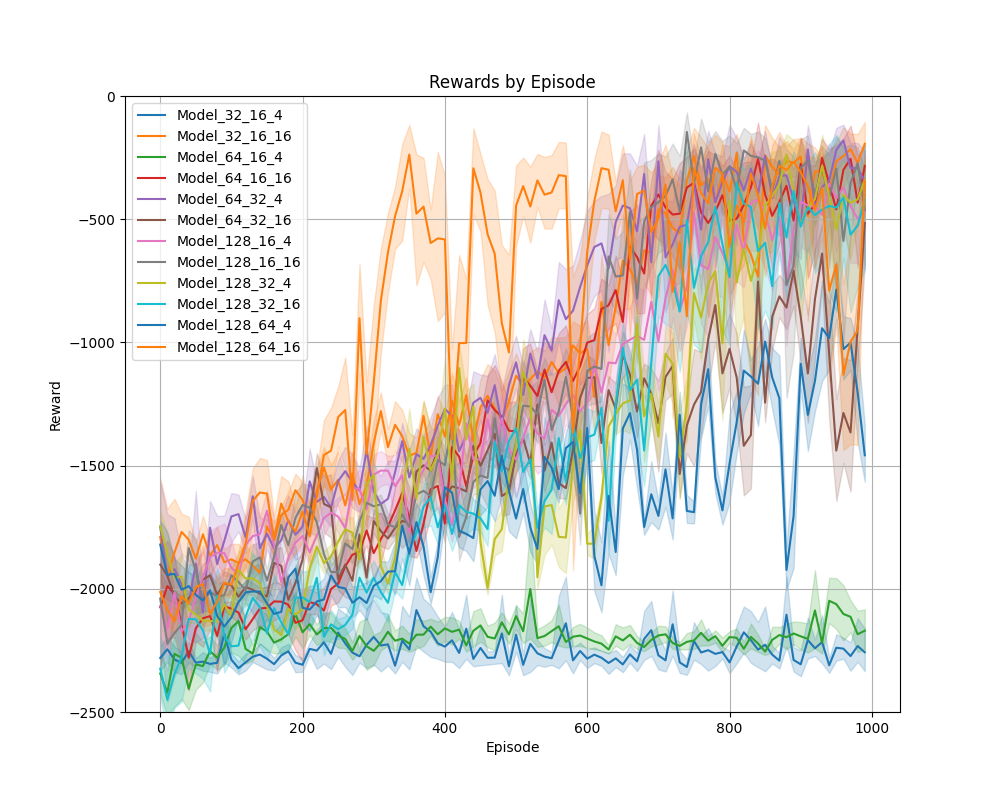
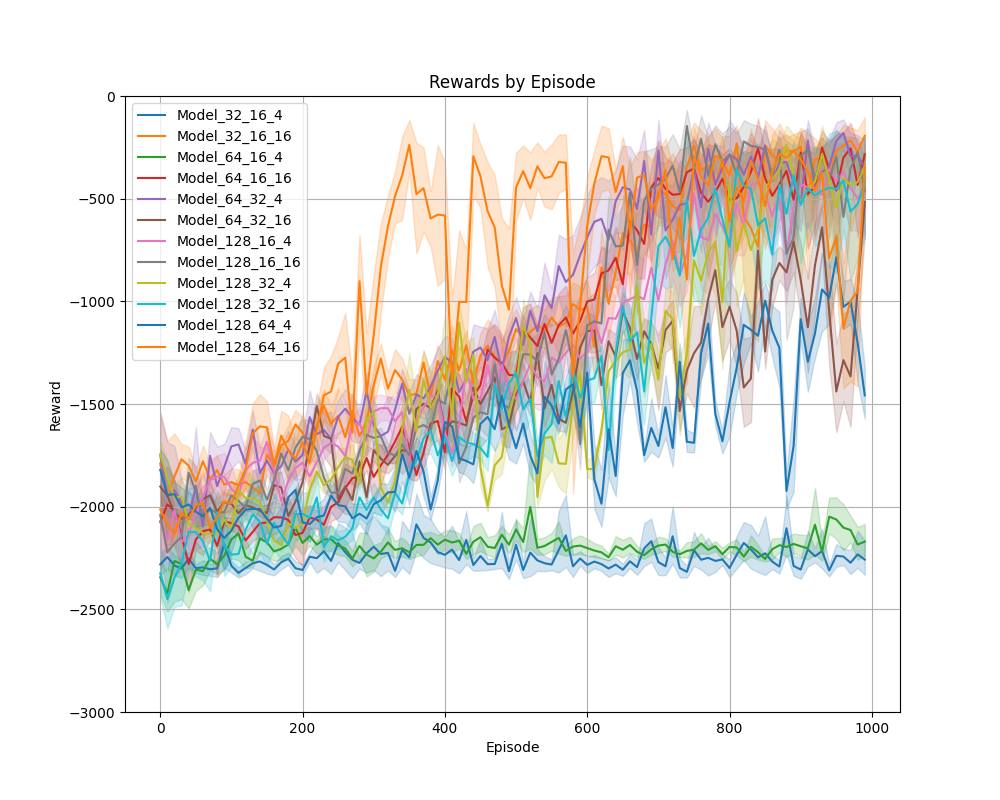
.

diff --git a/a2c/a2c_learn2.py b/a2c/a2c_learn2.py
@@ -15,57 +15,38 @@ import sys
 
 
 ## A2C 액터 신경망
-class Actor(Model):
-
-    def __init__(self, action_dim, action_bound, depth1, depth2, depth3):
-        super(Actor, self).__init__()
+class ActorCritic(Model) : 
+    def __init__(self, action_dim, action_bound) : 
+        super(ActorCritic, self).__init__()
         self.action_bound = action_bound
 
-        self.h1 = Dense(depth1, activation='relu')
-        self.h2 = Dense(depth2, activation='relu')
-        self.h3 = Dense(depth3, activation='relu')
+        self.h1 = Dense(128, activation='relu')
+        self.h2 = Dense(64, activation='relu')
+        self.h3 = Dense(16, activation='relu')
         self.mu = Dense(action_dim, activation='tanh')
         self.std = Dense(action_dim, activation='softplus')
+        self.critic = Dense(1, activation='linear')
 
-    def call(self, state):
+    def call(self, state) : 
         x = self.h1(state)
         x = self.h2(x)
         x = self.h3(x)
         mu = self.mu(x)
         std = self.std(x)
+        v = self.critic(x)
 
         # 평균값을 [-action_bound, action_bound] 범위로 조정
         mu = Lambda(lambda x: x*self.action_bound)(mu)
 
-        return [mu, std]
-
-
-## A2C 크리틱 신경망
-class Critic(Model):
-
-    def __init__(self, depth1, depth2, depth3):
-        super(Critic, self).__init__()
-
-        self.h1 = Dense(depth1, activation='relu')
-        self.h2 = Dense(depth2, activation='relu')
-        self.h3 = Dense(depth3, activation='relu')
-        self.v = Dense(1, activation='linear')
-
-    def call(self, state):
-        x = self.h1(state)
-        x = self.h2(x)
-        x = self.h3(x)
-        v = self.v(x)
-        return v
+        return [mu, std, v]
 
 
 ## A2C 에이전트 클래스
 class A2Cagent(object):
 
-    def __init__(self, env, gamma=0.95, batch_size=32, actor_lr=0.0001, critic_lr=0.001,
-                    depth1 = 64, depth2 = 32, depth3 = 16
+    def __init__(self, env, gamma=0.95, batch_size=32, actor_lr=0.0001, critic_lr=0.001
                 ):
-        self.save_path = Path(f'a2c/Results/Model_{depth1}_{depth2}_{depth3}')
+        self.save_path = Path(f'a2c/Results/Integrated_A2C')
         self.save_path.mkdir(parents=True, exist_ok=True)
 
         # 하이퍼파라미터
@@ -85,17 +66,12 @@ class A2Cagent(object):
         self.std_bound = [1e-2, 1.0]
 
         # 액터 신경망 및 크리틱 신경망 생성
-        self.actor = Actor(self.action_dim, self.action_bound, depth1, depth2, depth3)
-        self.critic = Critic(depth1, depth2, depth3)
-        self.actor.build(input_shape=(None, self.state_dim))
-        self.critic.build(input_shape=(None, self.state_dim))
-
-        self.actor.summary()
-        self.critic.summary()
+        self.actor_critic = ActorCritic(self.action_dim, self.action_bound)
+        self.actor_critic.build(input_shape=(None, self.state_dim))
+        self.actor_critic.summary()
 
         # 옵티마이저 설정
-        self.actor_opt = Adam(self.ACTOR_LEARNING_RATE)
-        self.critic_opt = Adam(self.CRITIC_LEARNING_RATE)
+        self.actor_critic_opt = Adam(self.ACTOR_LEARNING_RATE)
 
         # 에프소드에서 얻은 총 보상값을 저장하기 위한 변수
         self.save_epi_reward = []
@@ -111,42 +87,13 @@ class A2Cagent(object):
 
     ## 액터 신경망에서 행동 샘플링
     def get_action(self, state):
-        mu_a, std_a = self.actor(state)
+        mu_a, std_a, _ = self.actor_critic(state)
         mu_a = mu_a.numpy()[0]
         std_a = std_a.numpy()[0]
         std_a = np.clip(std_a, self.std_bound[0], self.std_bound[1])
         action = np.random.normal(mu_a, std_a, size=self.action_dim)
         return action
 
-
-    ## 액터 신경망 학습
-    def actor_learn(self, states, actions, advantages):
-
-        with tf.GradientTape() as tape:
-            # 정책 확률밀도함수
-            mu_a, std_a = self.actor(states, training=True)
-            log_policy_pdf = self.log_pdf(mu_a, std_a, actions)
-
-            # 손실함수
-            loss_policy = log_policy_pdf * advantages
-            loss = tf.reduce_sum(-loss_policy)
-
-        # 그래디언트
-        grads = tape.gradient(loss, self.actor.trainable_variables)
-        self.actor_opt.apply_gradients(zip(grads, self.actor.trainable_variables))
-
-
-    ## 크리틱 신경망 학습
-    def critic_learn(self, states, td_targets):
-        with tf.GradientTape() as tape:
-            td_hat = self.critic(states, training=True)
-            loss = tf.reduce_mean(tf.square(td_targets-td_hat))
-
-        grads = tape.gradient(loss, self.critic.trainable_variables)
-        self.critic_opt.apply_gradients(zip(grads, self.critic.trainable_variables))
-
-
-    ## 시간차 타깃 계산
     def td_target(self, rewards, next_v_values, dones):
         y_i = np.zeros(next_v_values.shape)
         for i in range(next_v_values.shape[0]):
@@ -156,11 +103,40 @@ class A2Cagent(object):
                 y_i[i] = rewards[i] + self.GAMMA * next_v_values[i]
         return y_i
 
+    ## 신경망 학습
+    def learn(self, states, actions, next_states, train_rewards, dones):
+        with tf.GradientTape() as tape:
+            _, _, v_values = self.actor_critic(states)
+            _, _, next_v_values = self.actor_critic(next_states)
+            mu_a, std_a, td_hat = self.actor_critic(states, training = True)
+            
+
+            mu_a = tf.squeeze(mu_a)
+            std_a = tf.squeeze(std_a)
+            v_values = tf.squeeze(v_values)
+            next_v_values = tf.squeeze(next_v_values)
+            td_hat = tf.squeeze(td_hat)
+
+            td_targets = self.td_target(train_rewards, next_v_values, dones)
+            advantages = train_rewards + self.GAMMA * next_v_values - v_values
+
+            # 정책 신경망의 손실함수
+            loss_policy = self.log_pdf(mu_a, std_a, actions) * advantages
+            actor_loss = tf.reduce_mean(-loss_policy)
+
+            # 크리틱 신경망의 손실함수
+            
+            critic_loss = tf.reduce_mean(tf.square(td_targets-td_hat))
+            total_loss = actor_loss + critic_loss
+            
+        grads = tape.gradient(total_loss, self.actor_critic.trainable_variables)
+        self.actor_critic_opt.apply_gradients(zip(grads, self.actor_critic.trainable_variables))
+        return total_loss
+
 
     ## 신경망 파라미터 로드
     def load_weights(self):
-        self.actor.load_weights(self.save_path.joinpath('pendulum_actor.h5'))
-        self.critic.load_weights(self.save_path.joinpath('pendulum_critic.h5'))
+        self.actor_critic.load_weights(self.save_path.joinpath('pendulum_actor_critic.h5'))
 
 
     ## 배치에 저장된 데이터 추출
@@ -168,6 +144,7 @@ class A2Cagent(object):
         unpack = batch[0]
         for idx in range(len(batch)-1):
             unpack = np.append(unpack, batch[idx+1], axis=0)
+
         return unpack
 
 
@@ -186,6 +163,7 @@ class A2Cagent(object):
             state = np.reshape(state, [1, self.state_dim])
 
             while not done:
+
                 # 학습 가시화
                 # self.env.render()
                 # 행동 샘플링
@@ -234,23 +212,13 @@ class A2Cagent(object):
                 # 배치 비움
                 batch_state, batch_action, batch_reward, batch_next_state, batch_done = [], [], [], [], []
 
-                # 시간차 타깃 계산
-                next_v_values = self.critic(tf.convert_to_tensor(next_states, dtype=tf.float32))
-                td_targets = self.td_target(train_rewards, next_v_values.numpy(), dones)
-
-                # 크리틱 신경망 업데이트
-                self.critic_learn(tf.convert_to_tensor(states, dtype=tf.float32),
-                                  tf.convert_to_tensor(td_targets, dtype=tf.float32))
-
-                # 어드밴티지 계산
-                v_values = self.critic(tf.convert_to_tensor(states, dtype=tf.float32))
-                next_v_values = self.critic(tf.convert_to_tensor(next_states, dtype=tf.float32))
-                advantages = train_rewards + self.GAMMA * next_v_values - v_values
 
                 # 액터 신경망 업데이트
-                self.actor_learn(tf.convert_to_tensor(states, dtype=tf.float32),
+                self.learn(      tf.convert_to_tensor(states, dtype=tf.float32),
                                  tf.convert_to_tensor(actions, dtype=tf.float32),
-                                 tf.convert_to_tensor(advantages, dtype=tf.float32))
+                                 tf.convert_to_tensor(next_states, dtype=tf.float32),
+                                 tf.convert_to_tensor(train_rewards, dtype=tf.float32),
+                                 tf.convert_to_tensor(dones, dtype=tf.float32))
 
                 # 상태 업데이트
                 state = next_state
@@ -267,10 +235,9 @@ class A2Cagent(object):
             # 에피소드 10번마다 신경망 파라미터를 파일에 저장
             if ep % 10 == 0:
                 
-                self.actor.save_weights(self.save_path.joinpath('pendulum_actor.h5'))
-                self.critic.save_weights(self.save_path.joinpath('pendulum_critic.h5'))
+                self.actor_critic.save_weights(self.save_path.joinpath('pendulum_actor_critic.h5'))
                 
-
+            
         # 학습이 끝난 후, 누적 보상값 저장
         np.savetxt(self.save_path.joinpath('pendulum_epi_reward.txt'), self.save_epi_reward)
         print(self.save_epi_reward)

diff --git a/a2c/a2c_load_play2.py b/a2c/a2c_load_play2.py
@@ -5,18 +5,17 @@
 # 필요한 패키지 임포트
 import gym
 import tensorflow as tf
-from a2c_learn import A2Cagent
+from a2c_learn2 import A2Cagent
 import cv2
-import itertools
 import imageio
 
 
-def main(depth1, depth2, depth3):
+def main():
 
     env_name = 'Pendulum-v1'
     env = gym.make(env_name, max_episode_steps=400, render_mode='rgb_array')
 
-    agent = A2Cagent(env, depth1 = depth1, depth2 = depth2, depth3 = depth3)
+    agent = A2Cagent(env)
 
     agent.load_weights()  # 신경망 파라미터를 가져옴
     video_writer = cv2.VideoWriter(agent.save_path.joinpath('project').with_suffix('.mp4').as_posix(),
@@ -31,7 +30,7 @@ def main(depth1, depth2, depth3):
         video_writer.write(time_image)
         images.append(time_image)
         
-        action = agent.actor(tf.convert_to_tensor([state], dtype=tf.float32))[0][0] # 행동 계산
+        action = agent.actor_critic(tf.convert_to_tensor([state], dtype=tf.float32))[0][0] # 행동 계산
         state, reward, term, trunc, _ = env.step(action)  # 환경으로 부터 다음 상태, 보상 받음
         time += 1
         
@@ -44,13 +43,4 @@ def main(depth1, depth2, depth3):
     imageio.mimsave(agent.save_path.joinpath('project').with_suffix('.gif').as_posix(), images, fps=15)
 
 if __name__=="__main__":
-    num_layers = 3
-    node_options = [4, 16, 32, 64, 128]
-    layer_possibilities = [node_options] * num_layers # 3 Layer 선택 필요
-    layer_node_permutations = list(itertools.product(*layer_possibilities))
-
-    layer_node_permutations = [[d1, d2, d3] for d1, d2, d3 in layer_node_permutations if d1 > d2 >= d3]
-    layer_node_permutations = [[d1, d2, d3] for d1, d2, d3 in layer_node_permutations if d1 >= 32 and d2 >= 16 and d3 <= 16]
-    for depth1, depth2, depth3 in layer_node_permutations:
-        print(f"Depth 1 : {depth1}, Depth 2 : {depth2}, Depth 3 : {depth3}")
-        main(depth1,depth2,depth3)
+    main()

diff --git a/a2c/a2c_draw_plot.py b/a2c/a2c_draw_plot.py
@@ -58,7 +58,7 @@ def draw_total_plot(data, title, xlabel, ylabel, filename):
     custom_palette = sns.color_palette("Paired", 12)
     for model_name in data.columns[2:]:
         sns.lineplot(data, x = 'episodes_10', y = model_name, ax=ax, label=model_name, palette=custom_palette)
-    ax.set_ylim(-2500, 0)
+    ax.set_ylim(-3000, 0)
     ax.set(xlabel=xlabel, ylabel=ylabel, title=title)
     ax.grid()
     fig.savefig(filename.with_name('scaled_' + filename.name))
@@ -66,7 +66,7 @@ def draw_total_plot(data, title, xlabel, ylabel, filename):
 
 def main():
     """Load rewards from file and draw plot."""
-    reward_paths = Path('a2c/Results').rglob('*reward.txt')
+    reward_paths = Path('a2c/Results').rglob('Model*/*reward.txt')
     for path in reward_paths:
         load_and_draw(path, 'Rewards by Episode', 'Episode', 'Reward', path.parent.name, path.with_suffix('.png'))
     
@@ -76,6 +76,21 @@ def main():
         total_reward_df[model_name] = rewards['rewards'].values
     draw_total_plot(total_reward_df, 'Rewards by Episode', 'Episode', 'Reward', Path('a2c/Results/total.png'))
 
+def main2() : 
+    """
+    Draw plot for question 2
+    """
+    reward_path1 = Path('a2c/Results/Model_128_64_16/pendulum_epi_reward.txt')
+    reward_path2 = Path('a2c/Results/Integrated_A2C/pendulum_epi_reward.txt')
+    for path in [reward_path1, reward_path2]:
+        load_and_draw(path, 'Rewards by Episode', 'Episode', 'Reward', path.parent.name, path.with_suffix('.png'))
+    
+    total_reward_df = pd.DataFrame(range(1000), columns = ['episodes'])
+    total_reward_df['episodes_10'] = total_reward_df['episodes'] // 10 * 10
+    for rewards, model_name in total_rewards:
+        total_reward_df[model_name] = rewards['rewards'].values
+    draw_total_plot(total_reward_df, 'Rewards by Episode', 'Episode', 'Reward', Path('a2c/Results/compare.png'))
 
 if __name__ == "__main__" :
-    main()
+    # main()
+    main2()

diff --git a/a2c/a2c_main2.py b/a2c/a2c_main2.py
@@ -1,0 +1,24 @@
+# A2C main
+# coded by St.Watermelon
+
+## 에이전트를 학습하고 결과를 도시하는 파일
+# 필요한 패키지 임포트
+from a2c_learn2 import A2Cagent
+import gym
+
+
+def main():
+
+    max_episode_num = 1000   # 최대 에피소드 설정
+    env_name = 'Pendulum-v1'
+    env = gym.make(env_name, max_episode_steps=300)  # 환경으로 OpenAI Gym의 pendulum-v0 설정
+    agent = A2Cagent(env)
+
+    # 학습 진행
+    agent.train(max_episode_num)
+
+    # 학습 결과 도시
+    agent.plot_result()
+
+if __name__=="__main__":
+    main()

diff --git a/readme.md b/readme.md
@@ -61,22 +61,27 @@ bash a2c/a2c_run.sh
 <b> 결과 </b>
 - Reward Plot
 
-![Reward Plot](./a2c/Results/total.png?raw=true "Reward Plot")
+![Reward Plot](./a2c/Results/total.png?raw=true "Reward Plot" width="300" height="200")
 
 - Reward Plot : 10 episode 단위로 average하고, 해당 구간 내의 reward의 std를 표시함
 - 128 -> 64 -> 16의 Model Architecture 선정
-    - Best Reward가
+    - 빠른 학습 속도
+    - 가장 높은 reward (-0.03)
 
-![Scaled Reward plot](./a2c/Results/scaled_total.png?raw=true "Scaled Reward Plot")
-![best Model](./a2c/Results/best_model.gif "Best Model")
+![Scaled Reward plot](./a2c/Results/scaled_total.png?raw=true "Scaled Reward Plot" width="300" height="200")
+![best Model](./a2c/Results/best_model.gif "Best Model" width="300" height="200")
 
 ### Question - b) 
 ```
-a)에서 찾은 최적구조를 아래와 같이 합쳐진 정책 신경망과 가치 신경망의 형태로 변경하여 성능을 비교하세요. 
+a)에서 찾은 최적구조를 합쳐진 정책 신경망과 가치 신경망의 형태로 변경하여 성능을 비교하세요. 
 (x축은 에피소드 y축이 보상인 학습 곡선을 그려서 비교하세요.)
 ```
+![compare Model](./a2c/Results/scaled_compare.png "Compare Model" width="300" height="200")
 
 ### Question - c) 
 ```
 변경된 코드도 제출하세요. 
+python a2c/a2c_main2.py
+python a2c/a2c_learn2.py # 해당 부분에서 수정
+python a2c/a2c_load_play2.py
 ```
